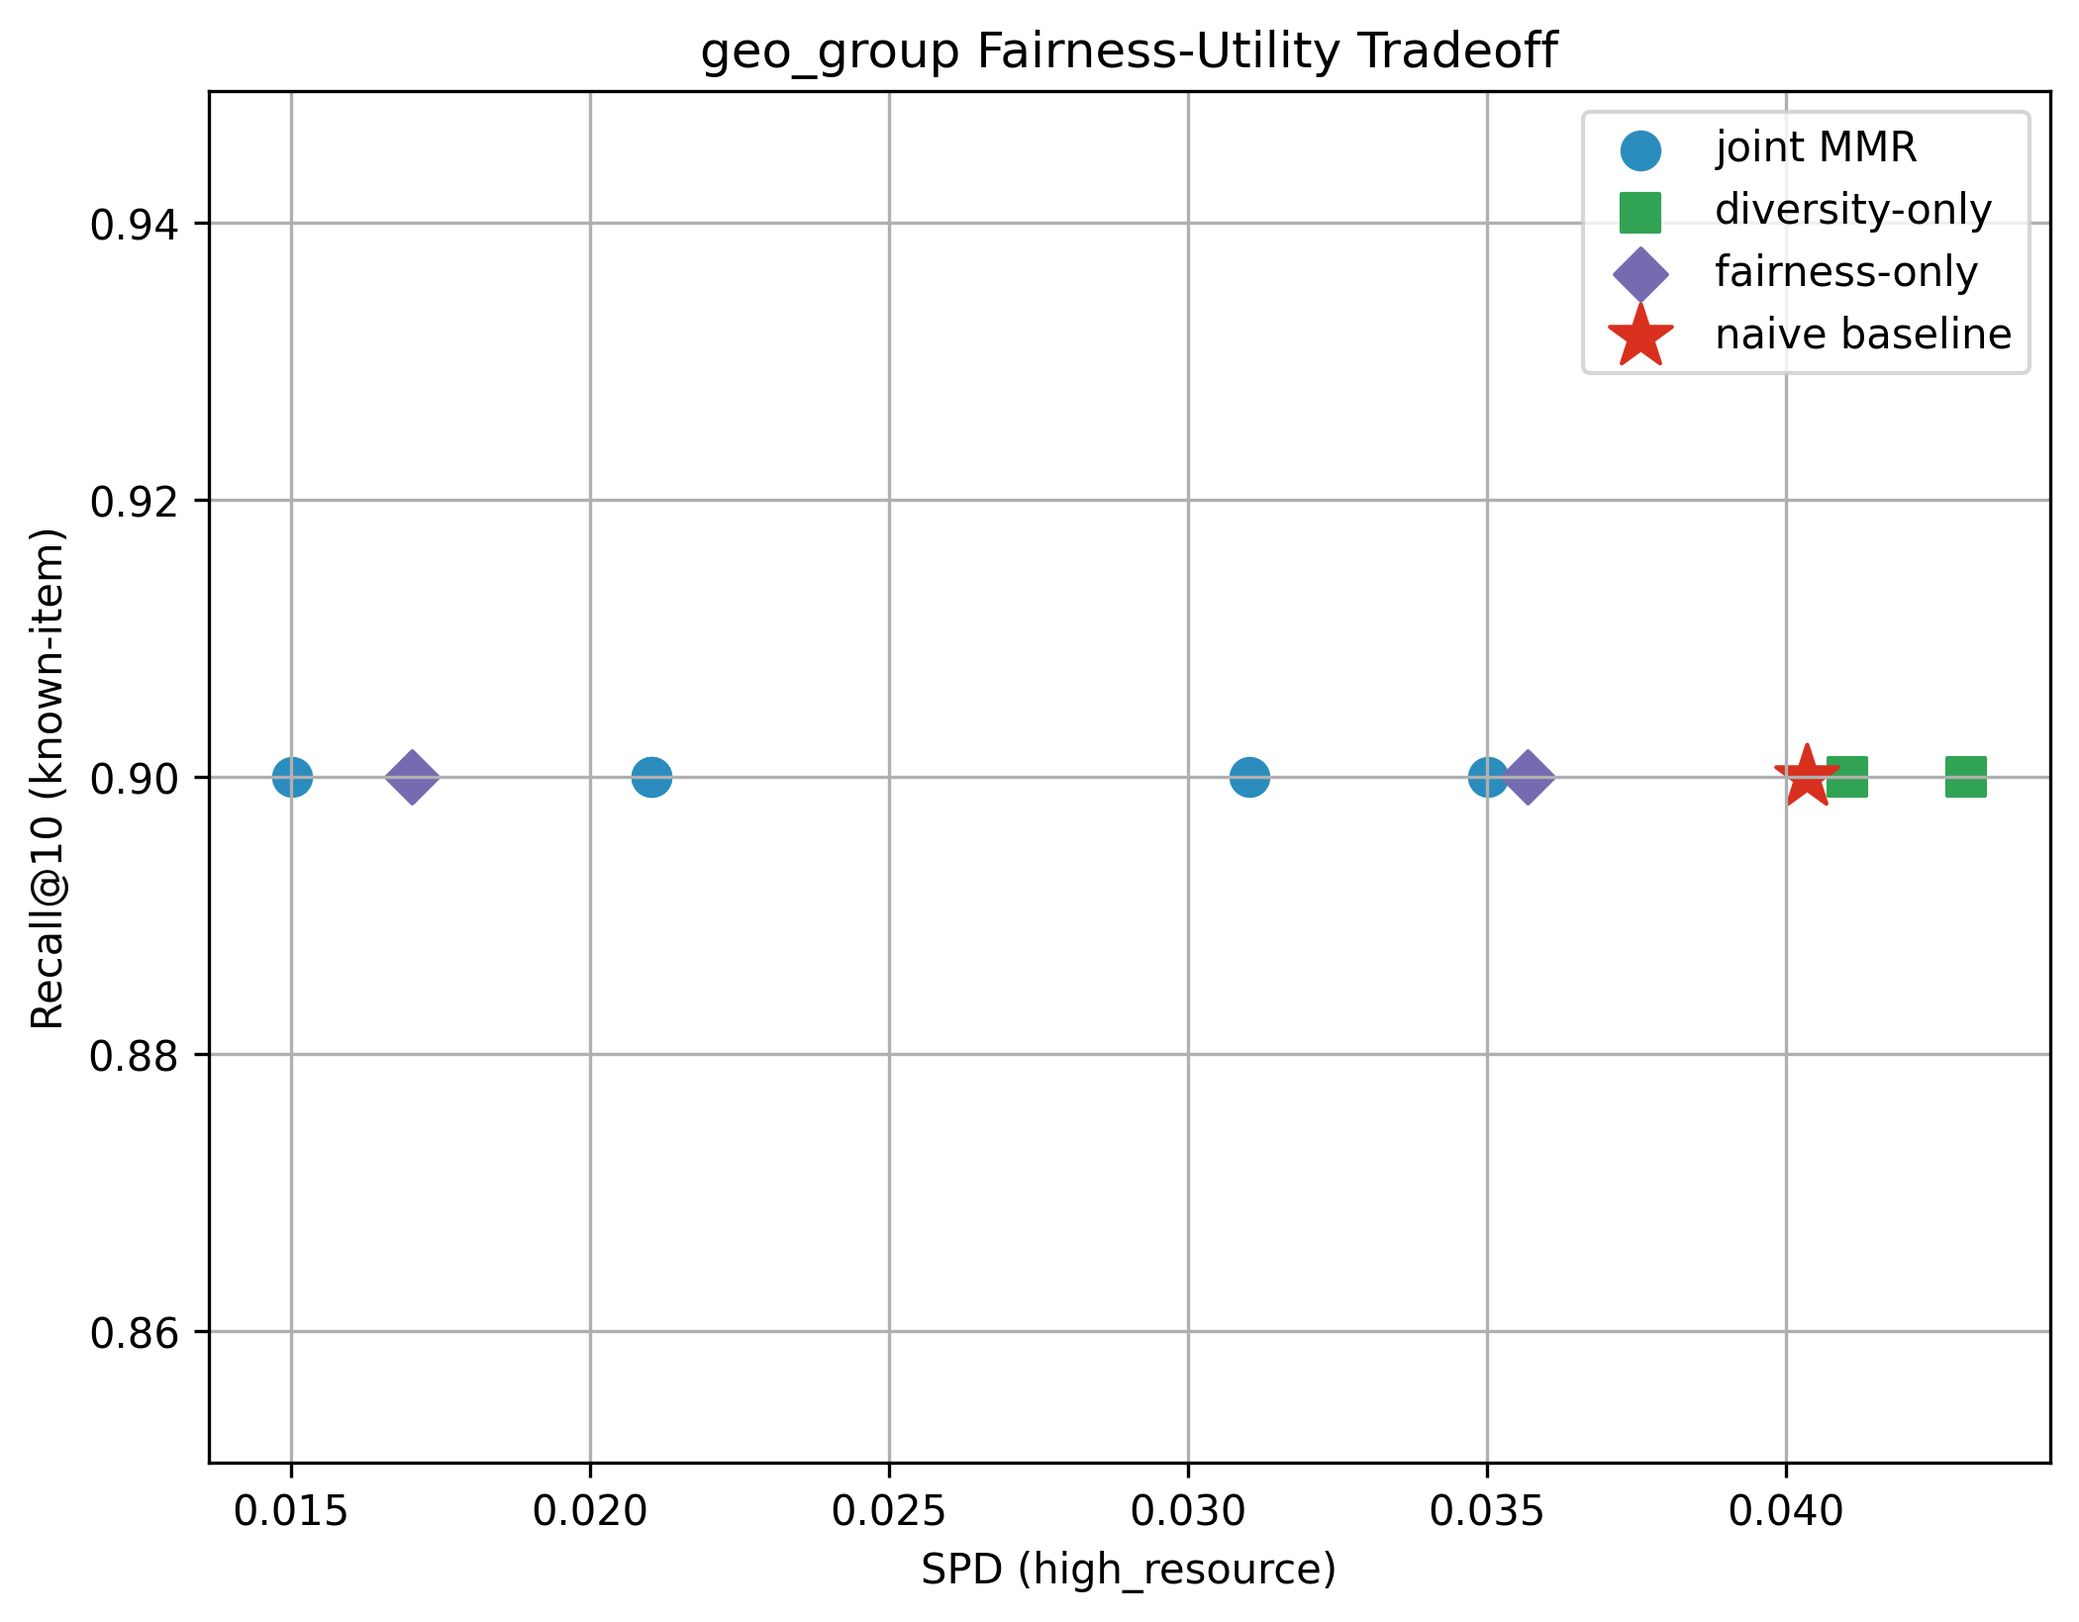
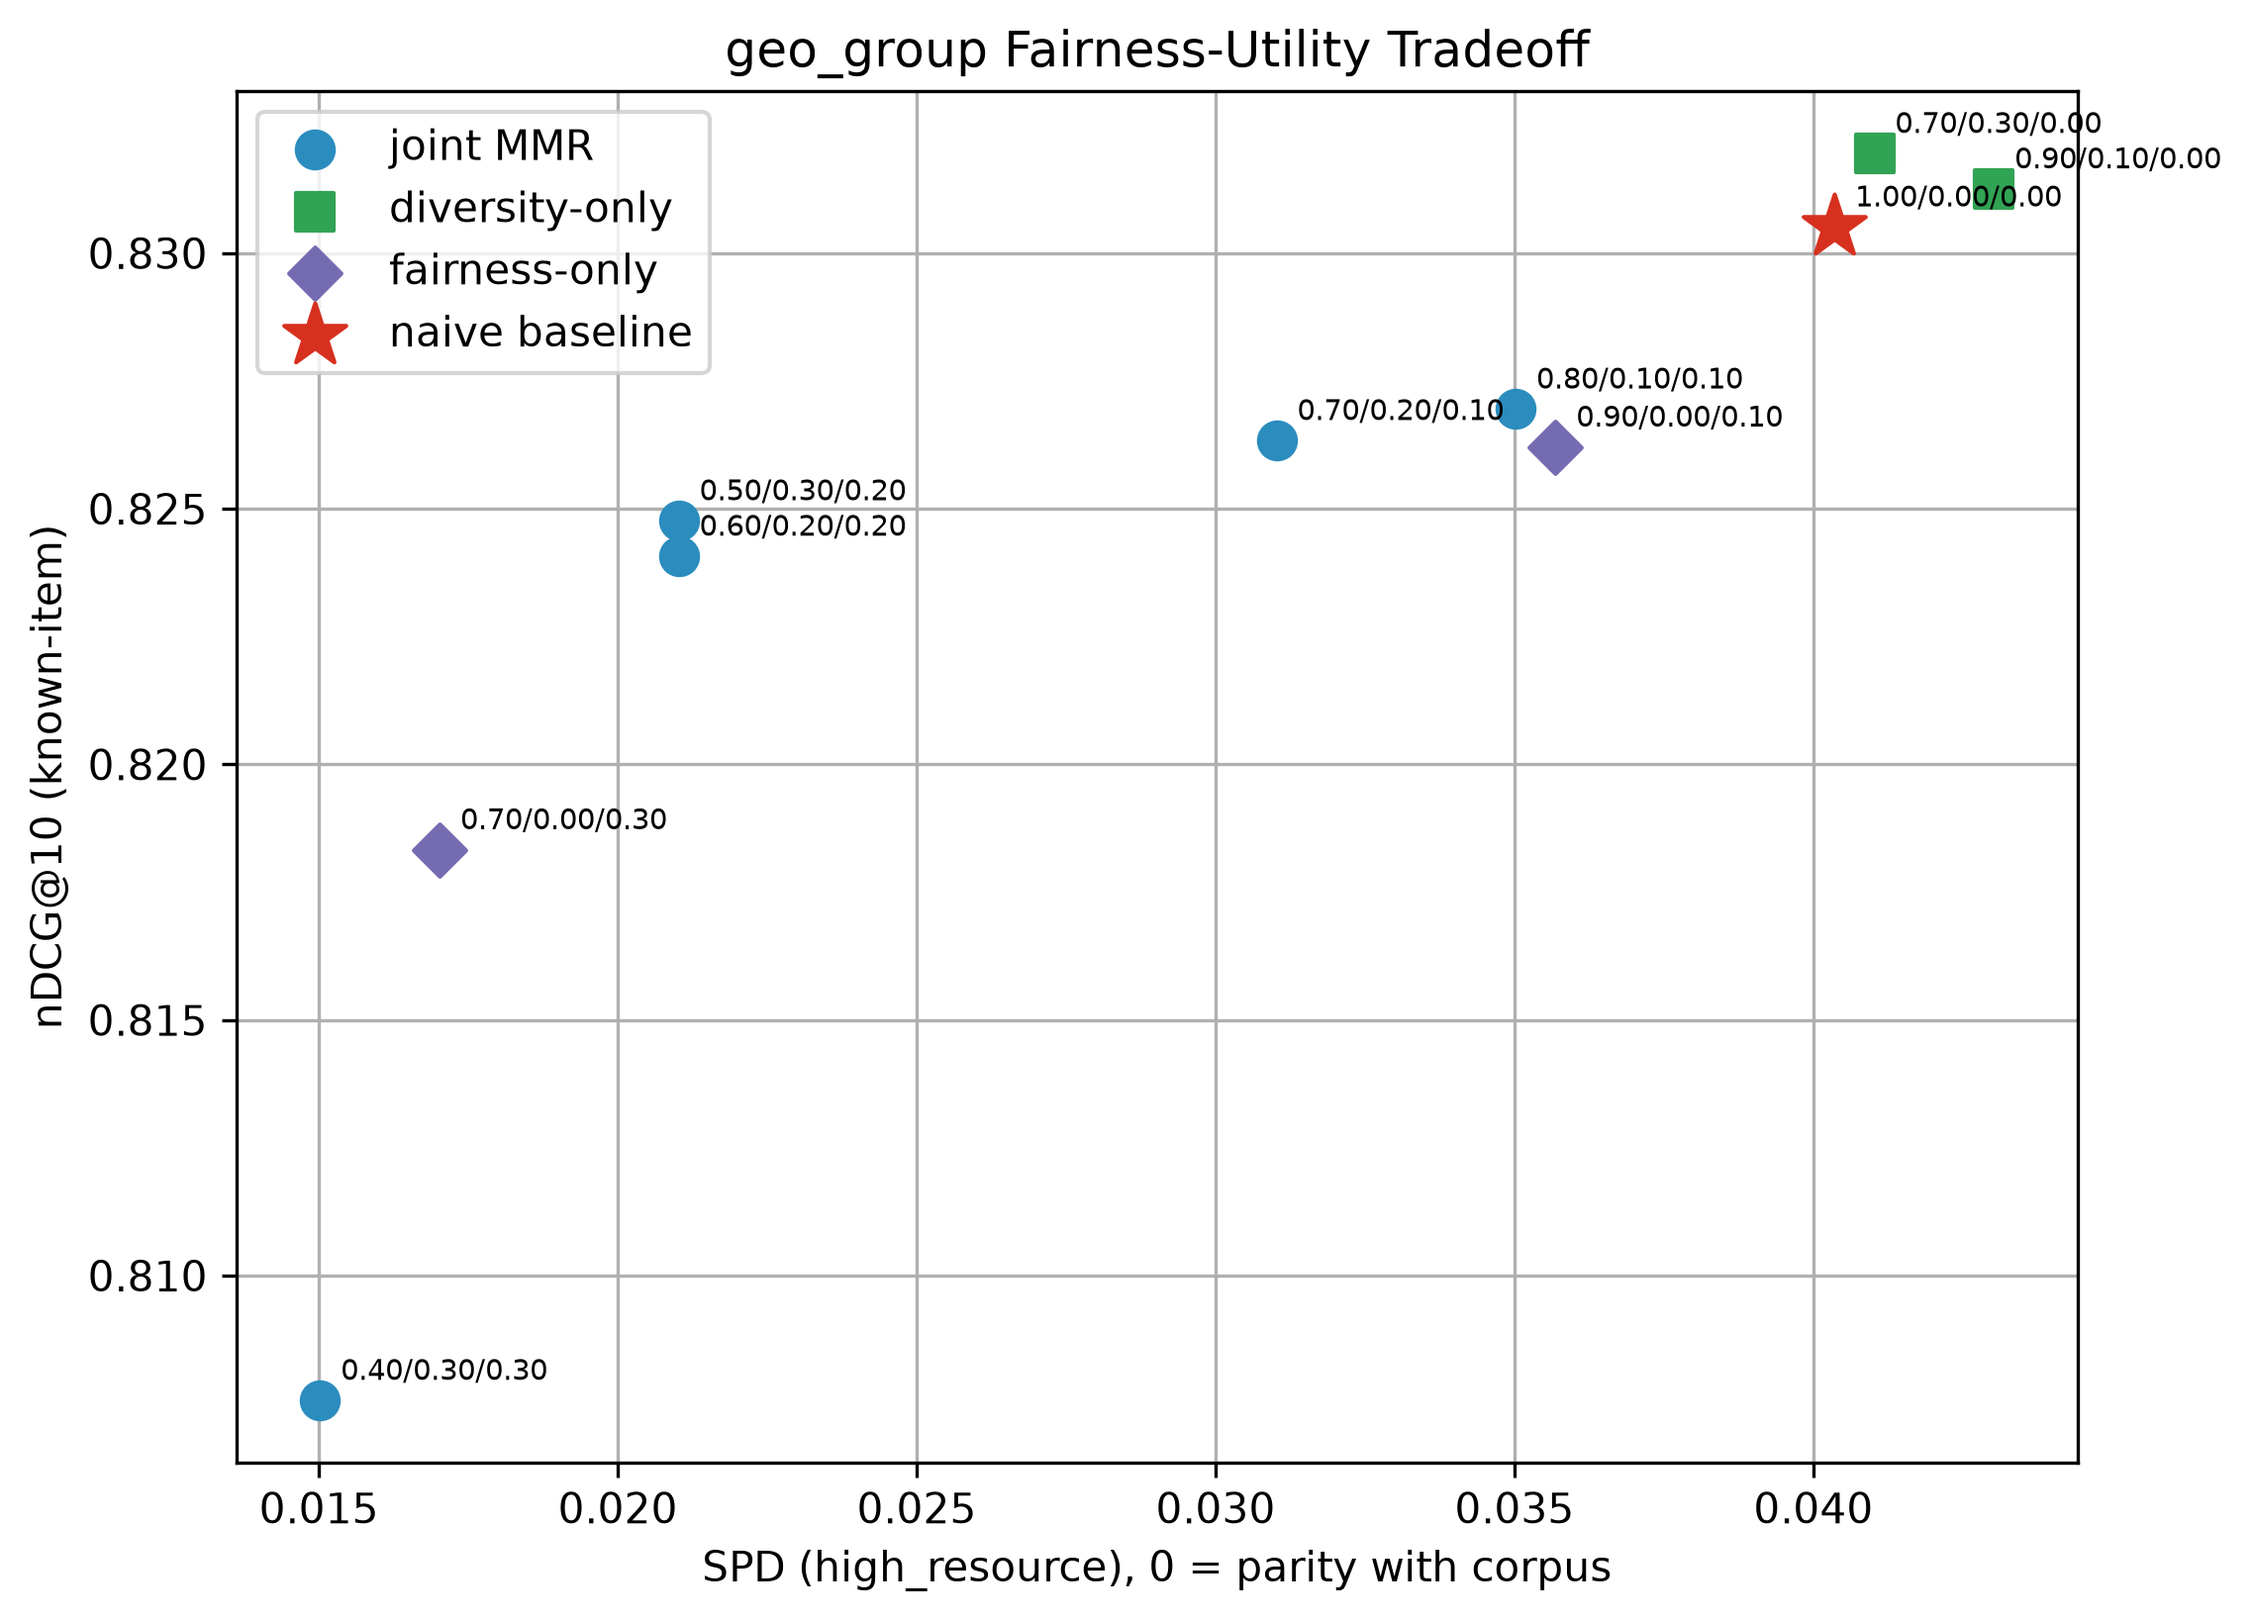
Plot nDCG@10 rather than Recall@10 in the geo fairness-utility figure
The figure plotted Recall@10 on y, which is a known-item hit rate and is
exactly 0.90 for all ten configurations. Every point therefore sat on a single
horizontal line, so a figure captioned "Fairness-Utility Tradeoff" could not
show a tradeoff at all -- it read as an empty chart. nDCG@10 spans
0.8076-0.8319 and is where the reranking cost actually appears.

Switches the y metric, and labels each point with its full weight triple so
the RQ3 isolation arms are identifiable. The result now shows the mechanism
result directly: diversity-only sits beside the baseline at the top right
(no fairness movement, no utility cost) while fairness-only carries the SPD
shift down and to the left.

Also fixes the annotation loop, which iterated the whole frame while only
mmr+baseline rows were scattered, and aligns figsize/dpi/colours with the
notebook cell that writes the same file so the two paths stop producing
visually different figures.

Note: work_notebook.ipynb writes this same filename and still plots
Recall@10, so re-running the notebook will silently revert this. That cell
needs the same change -- flagged in camille-docs, not fixed here since the
notebook is shared.

Claude-Session: https://claude.ai/code/session_01HubcxYasZBZ6WhUcPW4VPN

diff --git a/regenerate_geo_artifacts.py b/regenerate_geo_artifacts.py
@@ -360,22 +360,53 @@ for metric, data, ref in [("SPD", spd_geo, 0.0), ("SRR", srr_geo, 1.0)]:
     plt.close(fig)
 
 # 7d. lambda geo tradeoff (Phase 9)
-mmr_only = lambda_df[lambda_df["config_type"] == "mmr"]
-base = lambda_df[lambda_df["config_type"] == "baseline"]
-fig, ax = plt.subplots(figsize=(6, 4))
-ax.scatter(mmr_only["SPD_high_resource"], mmr_only["Recall@10"], c="#2b8cbe", label="MMR configs")
-ax.scatter(base["SPD_high_resource"], base["Recall@10"], c="#d7301f", marker="*", s=180, label="naive baseline")
-for _, r in lambda_df.iterrows():
-    ax.annotate(f"{r['lambda_rel']:.2f}/{r['lambda_fair']:.2f}",
-                (r["SPD_high_resource"], r["Recall@10"]), fontsize=7,
-                textcoords="offset points", xytext=(4, 4))
-ax.set_xlabel("SPD_high_resource")
-ax.set_ylabel("Recall@10 (known-item)")
-ax.set_title("geo fairness vs utility tradeoff")
+#
+# y is nDCG@10, not Recall@10. Recall@10 is a known-item hit rate and is
+# exactly 0.90 for every configuration, so plotting it put all ten points on
+# one horizontal line -- a trade-off figure that could not show a trade-off.
+# nDCG@10 spans 0.8076-0.8319 and is where the reranking cost actually shows.
+#
+# Every config_type gets its own series so the RQ3 isolation arms are visible:
+# diversity-only sits next to the baseline (near-zero fairness movement, no
+# utility cost) while fairness-only carries the SPD shift. Previously only
+# mmr+baseline were scattered while ALL rows were annotated, which left the
+# four isolation arms as floating labels with no marker under them.
+#
+# Colours, markers, figsize and dpi deliberately mirror the equivalent cell in
+# work_notebook.ipynb, which also writes this file -- see the note at the end
+# of this block.
+TRADEOFF_STYLE = {
+    "mmr":            ("#2b8cbe", "o",  80, "joint MMR"),
+    "diversity_only": ("#31a354", "s",  80, "diversity-only"),
+    "fairness_only":  ("#756bb1", "D",  80, "fairness-only"),
+    "baseline":       ("#d7301f", "*", 250, "naive baseline"),
+}
+Y_METRIC = "nDCG@10"
+
+fig, ax = plt.subplots(figsize=(8, 6))
+for cfg_type, (colour, marker, size, label) in TRADEOFF_STYLE.items():
+    subset = lambda_df[lambda_df["config_type"] == cfg_type]
+    if subset.empty:
+        continue
+    ax.scatter(subset["SPD_high_resource"], subset[Y_METRIC],
+               c=colour, marker=marker, s=size, label=label, zorder=3)
+    for _, r in subset.iterrows():
+        ax.annotate(f"{r['lambda_rel']:.2f}/{r['lambda_div']:.2f}/{r['lambda_fair']:.2f}",
+                    (r["SPD_high_resource"], r[Y_METRIC]), fontsize=7,
+                    textcoords="offset points", xytext=(5, 5))
+ax.set_xlabel("SPD (high_resource), 0 = parity with corpus")
+ax.set_ylabel(f"{Y_METRIC} (known-item)")
+ax.set_title("geo_group Fairness-Utility Tradeoff")
+ax.grid(True)
 ax.legend()
-fig.tight_layout()
-fig.savefig(os.path.join(FIG, "SPD_geo_fairness_utility_tradeoff.png"))
+fig.savefig(os.path.join(FIG, "SPD_geo_fairness_utility_tradeoff.png"),
+            dpi=300, bbox_inches="tight")
 plt.close(fig)
+#
+# NOTE: work_notebook.ipynb writes this same filename from its own cell, at the
+# same dpi/figsize but still plotting Recall@10 on y. Whichever ran last wins.
+# If you re-run the notebook, apply the same y-metric change there or this fix
+# will be silently reverted.
 
 # 7e. citation rate per dimension (Phase 10, rendered as the rate ratio so the
 # "cited in proportion to availability" line sits at a fixed 1.0 everywhere)
